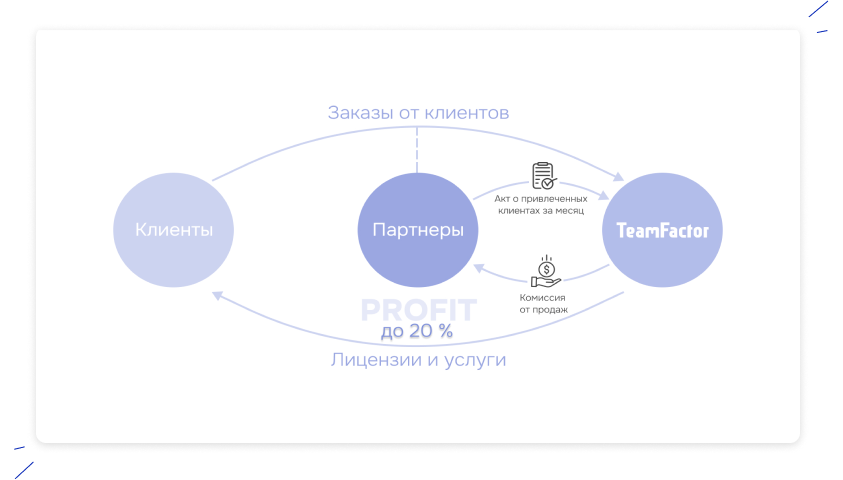
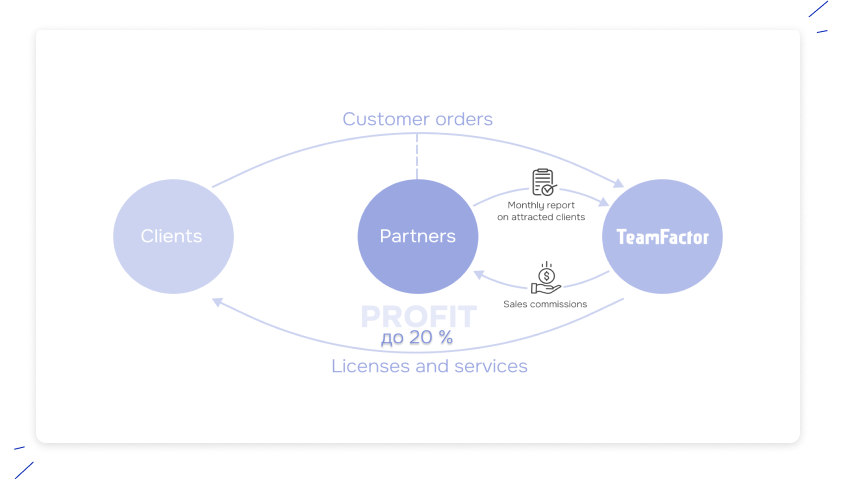
corr

diff --git a/tr/webinars/webinars.html b/tr/webinars/webinars.html
@@ -629,32 +629,32 @@
                     <div class="swiper-wrapper">
                         <div class="swiper-slide">
                             <figure>
-                                <img src="../../src/img/pages/webinars/slide_1.png" alt="">
+                                <img src="../../src/img/pages/webinars/tr/slide_1.png" alt="">
                             </figure>
                         </div>
                         <div class="swiper-slide">
                             <figure>
-                                <img src="../../src/img/pages/webinars/slide_2.png" alt="">
+                                <img src="../../src/img/pages/webinars/tr/slide_2.png" alt="">
                             </figure>
                         </div>
                         <div class="swiper-slide">
                             <figure>
-                                <img src="../../src/img/pages/webinars/slide_3.png" alt="">
+                                <img src="../../src/img/pages/webinars/tr/slide_3.png" alt="">
                             </figure>
                         </div>
                         <div class="swiper-slide">
                             <figure>
-                                <img src="../../src/img/pages/webinars/slide_4.png" alt="">
+                                <img src="../../src/img/pages/webinars/tr/slide_4.png" alt="">
                             </figure>
                         </div>
                         <div class="swiper-slide">
                             <figure>
-                                <img src="../../src/img/pages/webinars/slide_5.png" alt="">
+                                <img src="../../src/img/pages/webinars/tr/slide_5.png" alt="">
                             </figure>
                         </div>
                         <div class="swiper-slide">
                             <figure>
-                                <img src="../../src/img/pages/webinars/slide_6.png" alt="">
+                                <img src="../../src/img/pages/webinars/tr/slide_6.png" alt="">
                             </figure>
                         </div>
                     </div>
